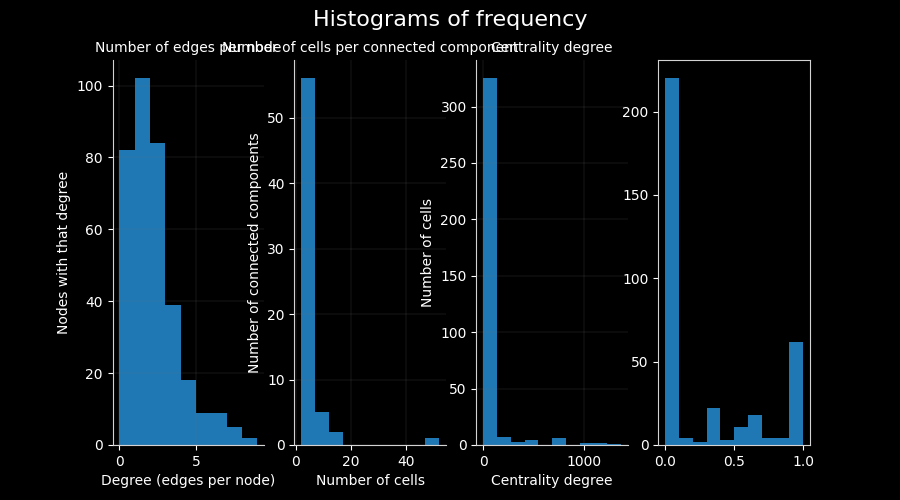
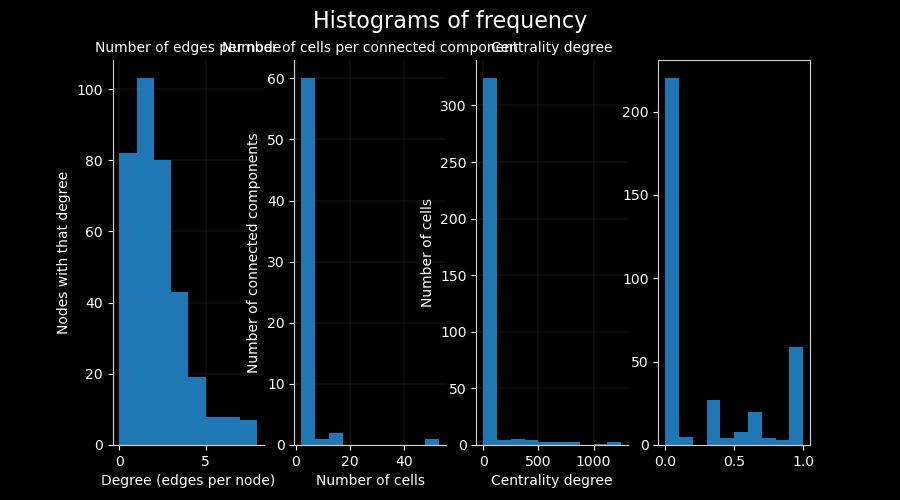
Working on the null model

diff --git a/connectivityModel.py b/connectivityModel.py
@@ -3,6 +3,7 @@ import numpy as np
 import csv
 import matplotlib.pyplot as plt
 import numpy as np
+import random
 
 import getData
 import connectionMatrix
@@ -11,6 +12,7 @@ import connectedComponents
 import probabilityFunctions as pf
 import paths
 import clustering
+import nullModel
 
 def main():
     animal = 'AVP 3 L1'                 # Animal
@@ -23,7 +25,6 @@ def main():
 
     criteria = 2                            # Connectivity criteria, may be 1 or 2
     criterion = 3/7                        # Criterion used for connections -> 1 - (3/7)
-    #criterion = 0
 
     aboutCrit = ''
     if criteria == 2:
@@ -39,6 +40,7 @@ def main():
     # Numpy array with converted data extracted from csv file
     # Receives two parameters, a string with file location, and a string indicating the slice, 'all' for all
     cells = getData.extractCells(fileLocation, anathomicSc)
+    #cells = nullModel.generateCells(400, 2250, 2500, 4500, 5000)
     print('Total number of nodes analyzed: {}'.format(len(cells)))
 
     # Probability table using numpy, for table[a][b] says the probability of connection between node 'a' and 'b'
@@ -77,7 +79,7 @@ def main():
 
     # Puts on ax the plot for the dendritic fields of each cell
     # Receives three parameter, the array with cells info, the ax and a bool indicating if it has to plot fixed radius
-    #networkPlots.drawDendriticFields(cells, ax, fixedRadius)
+    networkPlots.drawDendriticFields(cells, ax, fixedRadius)
 
     # Puts on ax the draw of all edges on a given binary matrix
     #networkPlots.drawEdges(binMatrix, cells, ax)
@@ -104,7 +106,6 @@ def main():
     nodesPCC = connectedComponents.nodesPerCC(ccomponents)
     nodesPCC_WOZ = connectedComponents.nodesPerCC_WOZ(ccomponents)
     print('Median of nodes per cc: {}'.format(np.median(nodesPCC_WOZ)))
-    print(nodesPCC_WOZ)
 
     # Returns a numpy array indicating the degree (number of edges) of each node
     edgesPN = connectedComponents.edgesPerNode(binMatrix)
@@ -120,6 +121,15 @@ def main():
 
     transitivity = clustering.transitivityCoef(cells, adjList, binMatrix)
     print('Transitivity of the network:', transitivity)
+
+    ######## About null model ##########
+
+    #nullCells = nullModel.generateCells(400, 2250, 2500, 4500, 5000)
+    #fig3, ax3 = plt.subplots()
+    #networkPlots.drawNodes(nullCells, ax3)
+    #fig3.set_size_inches((7.15,9.1))
+    #ax3.set_xlim(-500, 5000)
+    #ax3.set_ylim(-500, 6500)
 
     # Creates a figure for the histogram of node degree and nodes per connected components
     fig2, ax2 = plt.subplots(1, 4)

diff --git a/connectionMatrix.py b/connectionMatrix.py
@@ -8,7 +8,7 @@ import math
 def probabilityMatrix(cells, criteria, radius):
     size = len(cells)       # Get the total number of nodes on dict
     matrix = np.empty((size, size))
-    for i, cellA in enumerate(cells):               # Iterates over each node
+    for i, cellA in enumerate(cells):                       # Iterates over each node
         for j in range(i, size):
             cellB = cells[j]
             distance = pf.getDistance(cellA, cellB)         # Get the distance between cellA and cellB
@@ -28,7 +28,7 @@ def probabilityMatrix2Rad(cells, criteria):
     size = len(cells)       # Get the total number of nodes on cells
     matrix = np.empty((size, size))
 
-    for i, cellA in enumerate(cells):               # Iterates over each node
+    for i, cellA in enumerate(cells):                       # Iterates over each node
         for j in range(i, size):
             cellB = cells[j]
             distance = pf.getDistance(cellA, cellB)         # Get the distance between cellA and cellB

diff --git a/nullModel.py b/nullModel.py
@@ -1,7 +1,10 @@
 import math
 import random
+from getData import Cell
 
 def validPoint(h, k, rx, ry, x, y):
+    rx = rx/2
+    ry = ry/2
     eq = ((x-h)**2)/(rx**2) + ((y-k)**2)/(ry**2)
     if eq <= 1:
         return True
@@ -13,3 +16,20 @@ def rMin(area, rMaxC):
 
 def rMax(area, rMinC):
     return area/(math.pi*rMinC)
+
+def generateCells(total, h, k, rx, ry):
+    nullCells = []
+    nullCells.append(Cell(0, 0, 0, 0, 0))   # Foo cell, at cells[0]
+    print('Generando celulas...')
+    for i in range(1, total):
+        name = i
+        slice = 1
+        radius = random.randint(125, 150)
+        coordX = 0
+        coordY = 0
+        while validPoint(h, k, rx, ry, coordX, coordY) == False:
+            coordX = random.randint(0, 4500)
+            coordY = random.randint(0, 5000)
+        newCell = Cell(coordX, coordY, name, slice, radius)
+        nullCells.append(newCell)
+    return nullCells
